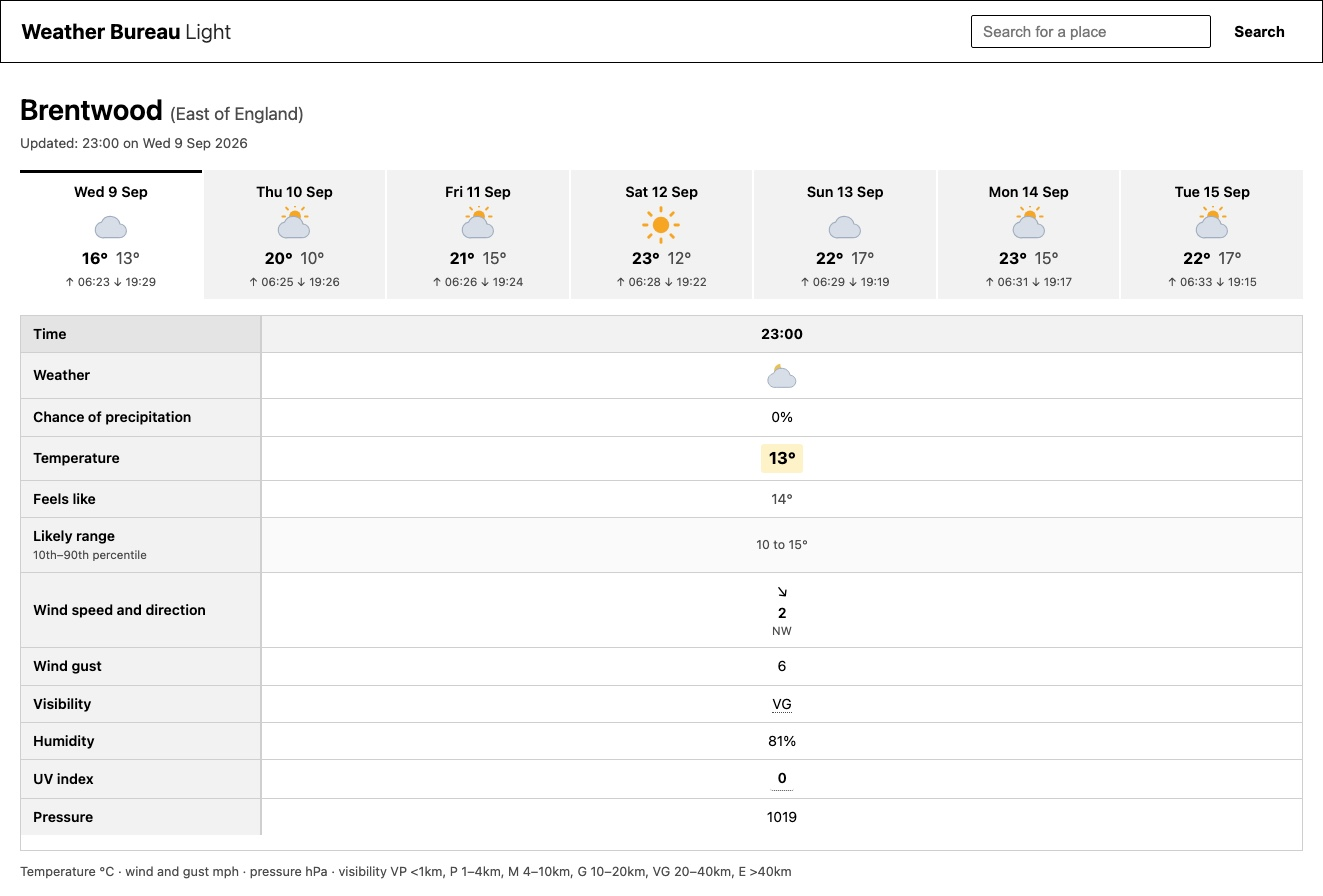
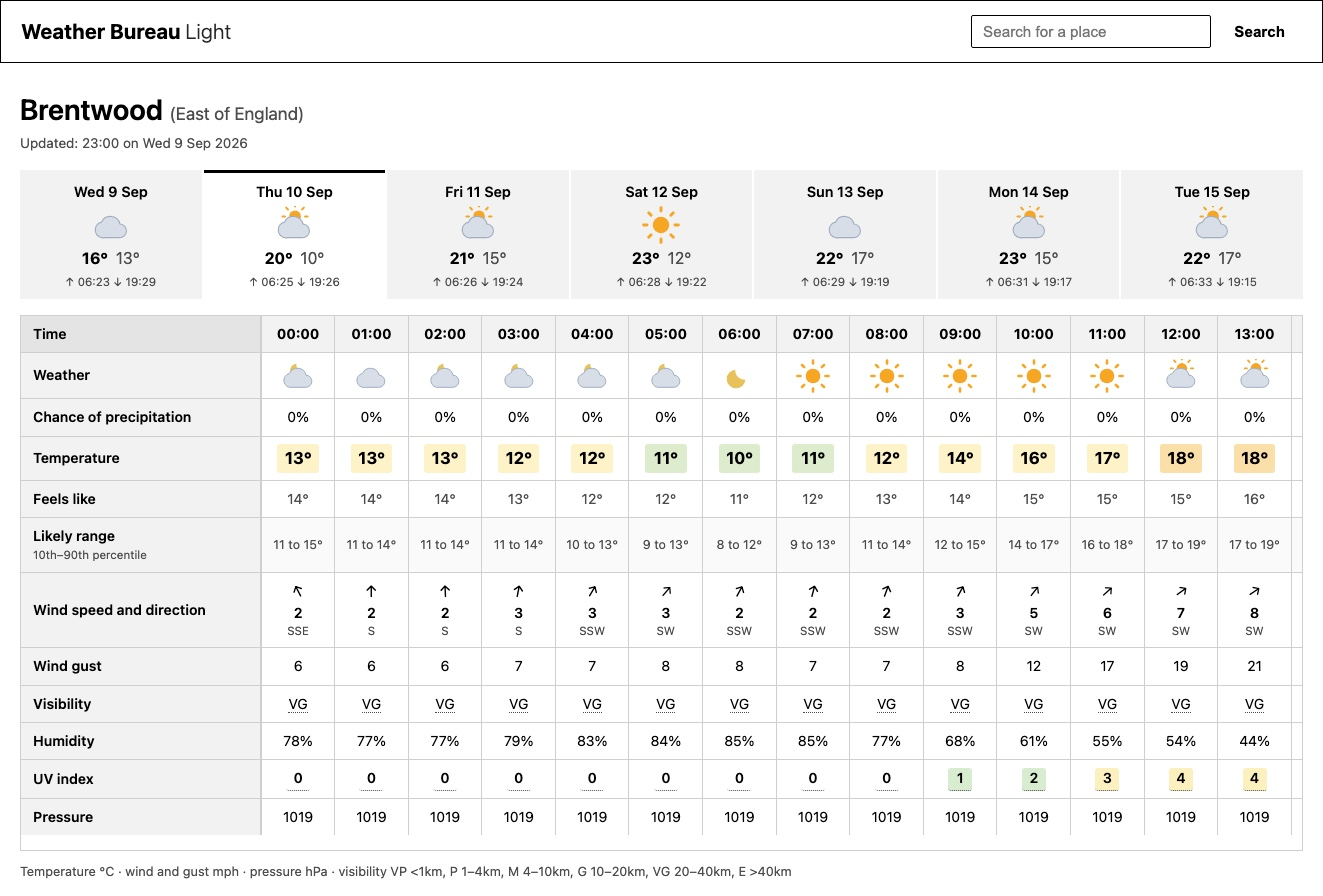
Refresh README and forecast screenshot

diff --git a/README.md b/README.md
@@ -1,69 +1,68 @@
-# Weather Bureau Light
+**WARNING** This is completely AI generated, with all that that implies.
 
-Weather Bureau Light is a small local website for viewing dense Met Office forecasts
-on a light background. It was built for people who find light text on a dark screen
-difficult to read, and who prefer to see more forecast information at once.
+# weather-bureau-light
 
-The forecast includes a likely temperature range, showing the 10th to 90th percentile
-of the Met Office's probabilistic forecast. It can also show Met Office Weather
-Warnings that affect the selected forecast site.
+The new Met Office website is very pretty but light text on a dark background
+is difficult to read for some of us with astigmatism and there's less
+information on a single page. This repo creates a local website that uses the Met
+Office API to display dense forecast data on a light background.
 
-This application is for personal, local use. The [Met Office terms of service][terms]
-do not permit it to be run as a public instance.
+There is a bonus "likely range" row which is the 10th–90th percentile spread
+for the temperature.
 
-![The forecast page for Brentwood, showing day tabs above an hourly table with weather symbols, precipitation probability, temperature, feels like temperature, likely range, wind, visibility, humidity, UV index and pressure.](docs/screenshot.jpg)
+Please note that the [Met Office terms of service][terms] prohibit this being run as a
+public instance.
+
+![The forecast page for Brentwood: a scrollable strip of day tabs, each with a weather symbol, max and min temperature and sunrise and sunset times, above an hourly table whose rows are weather symbol, chance of precipitation, temperature, feels like, likely range, wind speed and direction, wind gust, visibility, humidity, UV index and pressure.](docs/screenshot.jpg)
 
 ## Setup
 
-Create an account at [Met Office Weather DataHub](https://datahub.metoffice.gov.uk/)
-and subscribe to the Site-Specific Blended Probabilistic Forecast API. The personal
-plan allows up to 55 calls per day.
+Open a [Met Office data account](https://datahub.metoffice.gov.uk/) and subscribe to
+the Site-Specific Blended Probabilistic Forecast API. This is free for up
+to 55 calls per day, which should be fine for personal use.
 
-Install [uv](https://docs.astral.sh/uv/getting-started/installation/), then create your
-environment file:
+[Install uv](https://docs.astral.sh/uv/getting-started/installation/).
 
+Create a `.env` file from the example
 ```sh
 cp .env.example .env
 ```
+and edit it to include your API key.
 
-Add your forecast API key to `METOFFICE_API_KEY` in `.env`. If you also have access to
-the NSWWS Public API, add its key to `METOFFICE_NSWWS_API_KEY`; warnings are optional.
+To show Met Office Weather Warnings for the selected site, also set
+`METOFFICE_NSWWS_API_KEY` with a key for the NSWWS Public API. The warnings feed is
+optional; without it the forecast page is unchanged.
 
-Install the dependencies:
-
+Install the necessary Python packages with
 ```sh
 uv sync
 ```
 
-Start the site:
-
+Then to run
 ```sh
 uv run weather-bureau-light
 ```
+and open <http://127.0.0.1:5000/>.
 
-Open the address printed by the command (normally <http://127.0.0.1:5000/>).
-
-To choose the site shown on the home page, set `WBL_DEFAULT_SITE` in `.env` to a place
-name, postcode, or Met Office spot-site ID:
-
-```dotenv
+Set a default location with
+`WBL_DEFAULT_SITE` in `.env`, which takes either a
+place name or postcode
+```
 WBL_DEFAULT_SITE=Chelmsford
 ```
+You can also use a spot-site id, which is the Met Office's own identifier for one of the fixed points
+it forecasts for.
 
-## When the API is unavailable
+### When something goes wrong
 
-Forecast responses are cached under `.cache/`. If a request fails, the site serves the
-most recent cached forecast and labels it as stale. Weather warnings fail closed: the
-warnings section is omitted if the warnings API cannot be reached.
+The page shows cached data rather than erroring if data could not be fetched for
+whatever reason. A message will show describing the error.
 
-The health endpoint reports the state of the forecast API without making another API
-request:
-
+You can also use the `/healthz` endpoint, which returns `200`
+while the API is answering and `503` once a fetch has failed, e.g
 ```sh
 curl -sf http://127.0.0.1:5000/healthz || echo "forecast data is going stale"
 ```
-
-It returns `200` while requests are succeeding and `503` after a request has failed.
 
 ## Development notes
 
